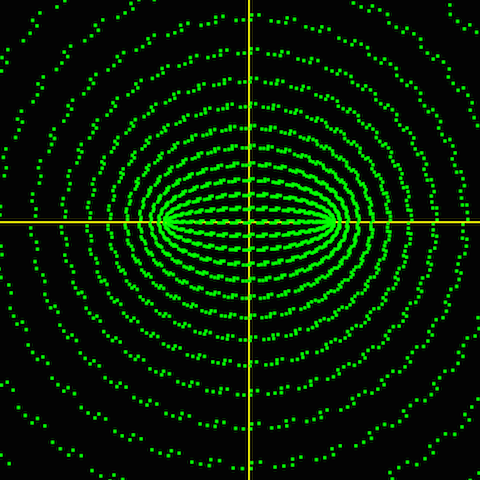
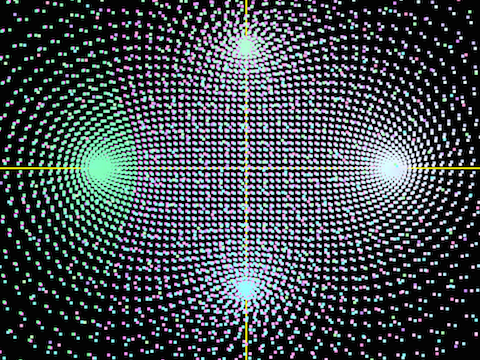
updated graph_i to display 2 more dimensions! (with colors)

diff --git a/graph_i.cpp b/graph_i.cpp
@@ -1,14 +1,15 @@
 #include <cassert>
 #include <vector>
 #include <cmath>
+#include <cstdlib>
 
 #include "Functions.hpp"
 #include "Graphics.hpp"
 
 static complex_t
-	g_step(1., 1.);
+	g_step(10., 10.);
 
-#define PLOTFUNC(z) (sin(z) + cos(z))
+#define PLOTFUNC(z) (sinh(cos(z)))
 #define STRFY(x) #x
 #define TOSTR(x) STRFY(x)
 
@@ -28,21 +29,36 @@ GFUNC_DISPLAY {
 	if(std::abs(g_step - complex_t(0., 0.)) < .0000001)
 		return;
 
-	glColor3f(0.0f, 1.0f, 0.0f);
+	/*
+	 * The plot is limited to only two dimensions (actually, three) and is used
+	 * for showing F(Z).
+	 * Therefore colors will add enough (3) dimensions to show Z.
+	 * The following gives the three color centers such that:
+	 *	col(z) = ( abs(red - z), abs(green - z), abs(blue - z) )
+	 */
+	const complex_t
+		lborder(x_.lborder, y_.lborder),
+		rborder(x_.rborder, y_.lborder),
+
+		center_red(.0, .0),
+		center_green(x_.gridsize, y_.gridsize / 3.),
+		center_blue(x_.gridsize / 3., y_.gridsize);
+
 	for(
 		real_t x = x_.lborder;
 		x <= x_.rborder;
-		x += g_step.real()
-	)
+		x += g_step.real())
 	{
 		for(
 			real_t y = y_.lborder;
 			y <= y_.rborder;
-			y += g_step.imag()
-		)
+			y += g_step.imag())
 		{
-			/* printf("%lf %lf\n", x, y); */
 			complex_t z(x, y);
+
+			#define CLZ(color) (.5 * std::abs(rborder - lborder) / std::abs(lborder + center_##color - z))
+			RGB_COLOR(CLZ(red), CLZ(green), CLZ(blue));
+
 			z = PLOTFUNC(z);
 			DisplayPoint(z.real(), z.imag());
 		}

diff --git a/README.md b/README.md
@@ -40,11 +40,17 @@ Plots a hardcoded function (above: `log(n)`)
 
 #### graph_i
 
-Plots **f(z)** on complex plane where **z** is a complex number. It might behave weirdly because $$f(z) \in{G} \not\rightarrow z \in{G}$$ where **G** is the grid.
+Plots **f(z)** on complex plane where **z** is a complex number with a color depending on `z`. 
 
-However, it still can give kind of understanding of function behaviour. Below is `cos(z) + sin(z)`:
+As you can see, below is `sinh(cos(z))`:
 
 ![graph_i](./screenshots/graph_i.png)
+
+##### Notes
+
+Above everything this program is not very accurate because $$f(z) \in{G} \not\rightarrow z \in{G}$$ where **G** is the grid.
+
+Also, the implementation with `GLUT` and too many abstract layers can not be normally considered efficient, but it is enough to see something at least.
 
 #### gen/
 
